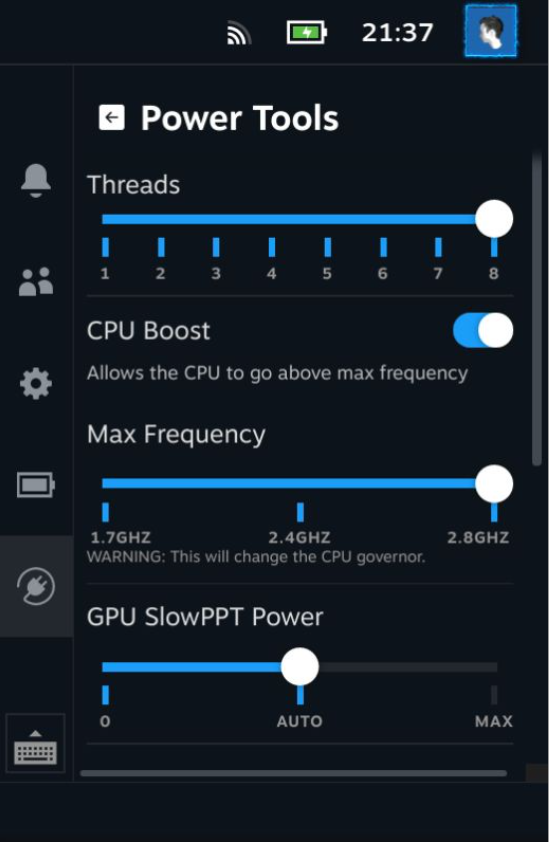
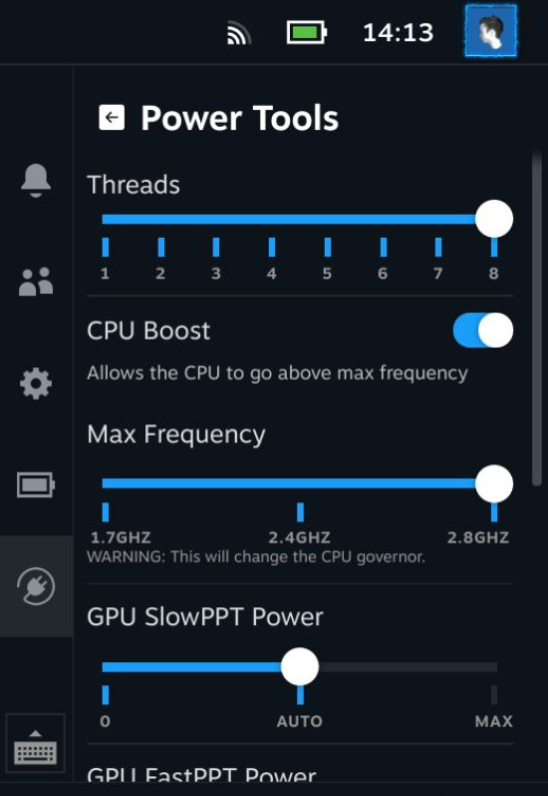
Hide horizontal scrollbar

diff --git a/main_view.html b/main_view.html
@@ -229,7 +229,7 @@
         </script>
         <style type="text/css" media="screen"></style>
     </head>
-    <body onload="onReady()" style="/*margin:0px;padding:0px;*/">
+    <body onload="onReady()" style="/*margin:0px;padding:0px;*/overflow-x:hidden;">
         <!-- CPU -->
 
         <!-- SMT toggle switch, roughly copied from https://github.com/SteamDeckHomebrew/ExtraSettingsPlugin/blob/main/main_view.html -->
